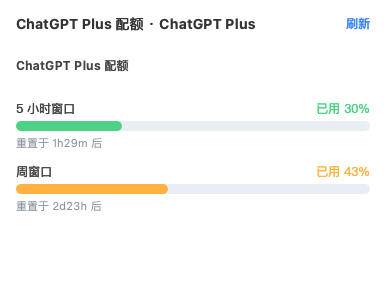
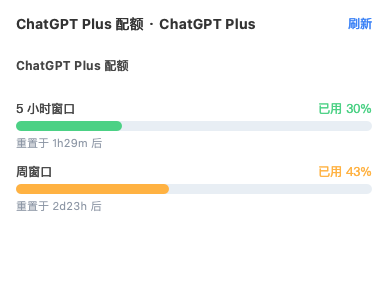
feat: CD 锚定(auto_anchor)——重置时刻自动开窗,5 小时周期首尾相接
Codex 的 5 小时窗口从第一次真实请求起算,纯读接口不算:额度用完后若
拖延才用,窗口起点被动后延,窗口时间被空烧。开启 auto_anchor 后:

- 主窗口用完(remaining=0)时,在 resets_at+10s 自动发一条最小请求
  (codex exec,几十 token)把新窗口锚定在重置节点上
- 锚定后读取新窗口,拿到新 resets_at 链式排程下一次(周期首尾相接)
- 仅上个窗口真的用完才锚定;未用完自然过期则不锚(避免空烧)
- 错过锚点超 5 分钟(如睡眠唤醒)放弃,等真实使用自然开窗
- exec 超时 120s 兜底 kill;失败静默放弃不影响主流程
- 平台无关实现(QProcess 跑 codex exec),Windows/macOS 同时支持
- 默认关闭,~/.codex-pet/config.json 设 auto_anchor: true 开启

tests/test_auto_anchor.py:9 项守卫/排程/链式用例

diff --git a/src/codex_pet/codex_client.py b/src/codex_pet/codex_client.py
@@ -16,6 +16,8 @@ from dataclasses import dataclass, field
 
 from PyQt6.QtCore import QObject, QProcess, QProcessEnvironment, QTimer, pyqtSignal
 
+from .config import load_config
+
 INITIALIZE = "initialize"
 READ_RATE_LIMITS = "account/rateLimits/read"
 RATE_LIMITS_UPDATED = "account/rateLimits/updated"
@@ -23,6 +25,14 @@ RATE_LIMITS_UPDATED = "account/rateLimits/updated"
 POLL_INTERVAL_MS = 5 * 60 * 1000  # 兜底轮询:5 分钟
 RESTART_BASE_MS = 2000            # 进程崩溃重启退避基数
 RESTART_MAX_MS = 5 * 60 * 1000
+
+# CD 锚定(auto_anchor):额度耗尽后,在窗口重置时刻自动发一条最小请求
+# "开窗",让 5 小时周期从重置节点起算、首尾相接(窗口计时从第一次真实
+# 请求开始,纯读接口不算)。
+ANCHOR_DELAY_S = 10          # resets_at 之后的缓冲,吸收服务器时钟偏差
+ANCHOR_LATE_LIMIT_S = 300    # 错过锚点超过 5 分钟(如睡眠)就放弃,等真实使用自然开窗
+ANCHOR_PROMPT = "Reply with OK"
+ANCHOR_TIMEOUT_MS = 120_000
 
 
 @dataclass
@@ -120,6 +130,14 @@ class CodexClient(QObject):
         self._restart_timer.setSingleShot(True)
         self._restart_timer.timeout.connect(self._start_process)
 
+        # CD 锚定状态(见 _schedule_anchor)
+        self._anchor_timer = QTimer(self)
+        self._anchor_timer.setSingleShot(True)
+        self._anchor_timer.timeout.connect(self._maybe_anchor)
+        self._anchor_proc: QProcess | None = None
+        self._last_remaining: int | None = None    # 最近一次主窗口 remaining
+        self._last_resets_at: float | None = None  # 最近一次主窗口重置时刻
+
     # ------------------------------------------------------------------ 公共
 
     def start(self) -> None:
@@ -193,15 +211,7 @@ class CodexClient(QObject):
         proc.setProgram(self._codex_exe)
         proc.setArguments([*self._codex_args, "app-server"])
         # 保证子进程能读到 HOME/USERPROFILE 下的 ~/.codex
-        env = QProcessEnvironment.systemEnvironment()
-        if sys.platform == "darwin":
-            # GUI 启动时 PATH 有限:codex 可能是依赖 env node 的脚本垫片,
-            # 把常见可执行目录补进 PATH,保证 app-server 能正常拉起
-            extra = ["/opt/homebrew/bin", "/usr/local/bin",
-                     os.path.expanduser("~/.local/bin")]
-            env.insert("PATH", ":".join(extra) + ":"
-                       + (env.value("PATH") or "/usr/bin:/bin:/usr/sbin:/sbin"))
-        proc.setProcessEnvironment(env)
+        proc.setProcessEnvironment(self._child_env())
         proc.readyReadStandardOutput.connect(self._on_stdout)
         proc.readyReadStandardError.connect(self._on_stderr)
         proc.started.connect(self._on_started)
@@ -305,6 +315,10 @@ class CodexClient(QObject):
             self._last_snapshot = snapshot
             payload = snapshot.to_dict()
             payload["updated_at"] = time.time()
+            primary = snapshot.primary
+            self._last_remaining = primary.remaining
+            self._last_resets_at = primary.resets_at
+            self._schedule_anchor()
             self.limitsUpdated.emit(payload)
 
     def _handle_error_response(self, req_id, error: dict) -> None:
@@ -322,3 +336,73 @@ class CodexClient(QObject):
         self._pending_reads.add(req_id)
 
     # 解析在 _handle_response 中分发:给 read 请求分配的 id 需要跟踪
+
+    # ------------------------------------------------------------- CD 锚定
+
+    def _child_env(self) -> QProcessEnvironment:
+        """子进程环境:GUI 启动时 PATH 有限,补常见可执行目录。"""
+        env = QProcessEnvironment.systemEnvironment()
+        if sys.platform == "darwin":
+            extra = ["/opt/homebrew/bin", "/usr/local/bin",
+                     os.path.expanduser("~/.local/bin")]
+            env.insert("PATH", ":".join(extra) + ":"
+                       + (env.value("PATH") or "/usr/bin:/bin:/usr/sbin:/sbin"))
+        return env
+
+    def _schedule_anchor(self) -> None:
+        """CD 锚定排程:主窗口用完(remaining=0)且未重置时,在重置时刻
+        自动发一条最小请求"开窗",让 5 小时周期从重置节点起算、首尾相接。
+
+        窗口计时从第一次真实请求开始(纯读接口不算),若等用户下次才用,
+        窗口起点被动后延。开关:~/.codex-pet/config.json "auto_anchor": true
+        (默认关——会自动产生真实请求,须用户知情开启)。
+        """
+        if not load_config().get("auto_anchor"):
+            return
+        resets_at = self._last_resets_at
+        if (self._last_remaining != 0 or resets_at is None
+                or resets_at <= time.time()):
+            return
+        delay_ms = max(1000, int((resets_at + ANCHOR_DELAY_S - time.time()) * 1000))
+        self._anchor_timer.start(delay_ms)
+
+    def _maybe_anchor(self) -> None:
+        """锚定时刻到:通过全部守卫才真正发起锚定请求。"""
+        if (not load_config().get("auto_anchor")
+                or getattr(self, "_codex_exe", None) is None
+                or self._last_remaining != 0
+                or self._last_resets_at is None
+                or self._anchor_proc is not None):
+            return
+        late = time.time() - self._last_resets_at
+        if late > ANCHOR_LATE_LIMIT_S:
+            # 错过太久(如睡眠唤醒):不锚,让用户下次真实使用自然开窗
+            return
+        self._fire_anchor()
+
+    def _fire_anchor(self) -> None:
+        proc = QProcess(self)
+        proc.setProgram(self._codex_exe)
+        proc.setArguments([*self._codex_args, "exec", "--skip-git-repo-check",
+                           ANCHOR_PROMPT])
+        proc.setWorkingDirectory(os.path.expanduser("~"))
+        proc.setProcessEnvironment(self._child_env())
+        proc.finished.connect(self._on_anchor_finished)
+        proc.errorOccurred.connect(self._on_anchor_failed)
+        self._anchor_proc = proc
+        QTimer.singleShot(ANCHOR_TIMEOUT_MS, self._kill_stale_anchor)
+        proc.start()
+
+    def _kill_stale_anchor(self) -> None:
+        if self._anchor_proc is not None:
+            self._anchor_proc.kill()
+
+    def _on_anchor_finished(self, _code, _status) -> None:
+        self._anchor_proc = None
+        # 锚定成功则此次读取拿到新窗口(remaining≈100、resets_at=锚点+5h),
+        # 链式排程下一次;若服务端尚未滚动,退回兜底轮询
+        self.refresh()
+
+    def _on_anchor_failed(self, _err) -> None:
+        self._anchor_proc = None
+        self.refresh()

diff --git a/tests/test_auto_anchor.py b/tests/test_auto_anchor.py
@@ -1,0 +1,99 @@
+"""CD 锚定(auto_anchor)逻辑测试:守卫条件、排程、链式续排。
+
+不真正发起 codex exec:_fire_anchor / refresh 被猴补为记录器。
+"""
+
+import os
+import sys
+import time
+
+os.environ.setdefault("QT_QPA_PLATFORM", "offscreen")
+sys.path.insert(0, os.path.join(os.path.dirname(__file__), "..", "src"))
+
+import codex_pet.codex_client as cc
+from codex_pet.codex_client import CodexClient
+from PyQt6.QtWidgets import QApplication
+
+app = QApplication.instance() or QApplication(sys.argv)
+
+results = []
+
+
+def check(name, cond):
+    results.append((name, cond))
+    print(("PASS " if cond else "FAIL ") + name)
+
+
+def make_client(auto_anchor=True):
+    cc.load_config = lambda: {"auto_anchor": auto_anchor}
+    client = CodexClient()
+    client._codex_exe = "/usr/bin/true"   # 守卫检查用,不真正执行
+    client._codex_args = []
+    fired, refreshed = [], []
+    client._fire_anchor = lambda: fired.append(time.time())
+    client.refresh = lambda: refreshed.append(time.time())
+    return client, fired, refreshed
+
+
+def feed(client, remaining, resets_at):
+    """模拟一次配额响应到达(_handle_response 的状态记录 + 排程)。"""
+    client._last_remaining = remaining
+    client._last_resets_at = resets_at
+    client._schedule_anchor()
+
+
+# 场景1:用完 + 重置在未来 + 开关开 → 排程定时器
+c, fired, refreshed = make_client(True)
+future = time.time() + 3600
+feed(c, 0, future)
+check("用完+未来重置 → 定时器已排程", c._anchor_timer.isActive())
+check("排程时刻 ≈ resets_at+10s",
+      abs(c._anchor_timer.remainingTime() / 1000 - (future + 10 - time.time())) < 2)
+
+# 场景2:未用完 → 不排程
+c2, f2, r2 = make_client(True)
+feed(c2, 45, future)
+check("未用完 → 不排程", not c2._anchor_timer.isActive())
+
+# 场景3:开关关 → 不排程
+c3, f3, r3 = make_client(False)
+feed(c3, 0, future)
+check("开关关 → 不排程", not c3._anchor_timer.isActive())
+
+# 场景4:重置时刻已过 → 不排程(退回兜底轮询)
+c4, f4, r4 = make_client(True)
+feed(c4, 0, time.time() - 60)
+check("重置已过 → 不排程", not c4._anchor_timer.isActive())
+
+# 场景5:锚定时刻到,守卫判断
+c5, f5, r5 = make_client(True)
+c5._last_remaining = 0
+c5._last_resets_at = time.time() - 2      # 刚过重置点 2 秒
+c5._maybe_anchor()
+check("刚过重置点 → 发起锚定", len(f5) == 1)
+
+# 场景6:错过太久(睡眠)→ 放弃
+c6, f6, r6 = make_client(True)
+c6._last_remaining = 0
+c6._last_resets_at = time.time() - 400    # 错过 6.7 分钟
+c6._maybe_anchor()
+check("错过 >5 分钟 → 放弃锚定", len(f6) == 0)
+
+# 场景7:未用完时不发起
+c7, f7, r7 = make_client(True)
+c7._last_remaining = 60
+c7._last_resets_at = time.time() - 2
+c7._maybe_anchor()
+check("未用完 → 不发起", len(f7) == 0)
+
+# 场景8:锚定完成 → 刷新读取新窗口(链式)
+c8, f8, r8 = make_client(True)
+c8._last_remaining = 0
+c8._last_resets_at = time.time() - 2
+proc = cc.QProcess(c8)
+c8._anchor_proc = proc
+c8._on_anchor_finished(0, cc.QProcess.ExitStatus.NormalExit)
+check("锚定完成后触发刷新拿新窗口", len(r8) == 1 and c8._anchor_proc is None)
+
+print("\nRESULT:", "PASS" if all(cond for _, cond in results) else "FAIL")
+sys.exit(0 if all(cond for _, cond in results) else 1)

diff --git a/src/codex_pet/__init__.py b/src/codex_pet/__init__.py
@@ -3,4 +3,4 @@
 from .__main__ import main
 
 __all__ = ["main"]
-__version__ = "1.4.4"
+__version__ = "1.5.0"

diff --git a/README.md b/README.md
@@ -23,7 +23,8 @@
 - **置顶强化**:每秒检测是否被其他置顶窗口(如任务栏)盖住,被盖自动重排回顶端;任务栏挪动/分辨率变化时跟随锚定
 - **系统托盘**:模式化图标(配额电量 / DeepSeek ¥)+ 悬停提示;macOS 菜单栏图标即主显示
 - **零凭证接触**:ChatGPT 鉴权完全由 Codex CLI 自己管理;DeepSeek 密钥只用于调余额接口,不写日志
-- **离线兜底**:codex 未安装/未登录时显示离线状态(电池显示 Z),进程崩溃自动退避重启;DeepSeek 密钥无效时明确提示
+- **CD 锚定(auto_anchor,可选)**:Codex 的 5 小时窗口从第一次真实请求起算——额度用完后若拖延才用,窗口起点会被动后延。开启后,在窗口重置时刻自动发一条最小请求(`codex exec`,几十 token)"开窗",让 5 小时周期从重置节点起算、首尾相接;仅在上个窗口真的用完时锚定,错过锚点(如睡眠)超 5 分钟自动放弃
+- **离线兜底**:codex 未安装/未登录时显示离线状态(图标显示 Z),进程崩溃自动退避重启;DeepSeek 密钥无效时明确提示
 
 ## 环境要求
 
@@ -62,7 +63,8 @@ uv run codex-pet
 
 ```jsonc
 {
-  "bar_offset": [0, 0]  // 余额条相对任务栏托盘左侧锚点的偏移
+  "bar_offset": [0, 0],    // 余额条相对任务栏托盘左侧锚点的偏移
+  "auto_anchor": false     // CD 锚定:额度用完后在重置时刻自动"开窗"(见功能列表)
 }
 ```
 
@@ -85,7 +87,7 @@ uv run --with pyinstaller pyinstaller --windowed \
     --name CodexPet --icon assets/CodexPet.icns \
     --paths src scripts/launcher.py --noconfirm                 # 出 dist/CodexPet.app
 /usr/libexec/PlistBuddy -c "Set :CFBundleIdentifier com.simonyuann.codexpet" \
-    -c "Set :CFBundleShortVersionString 1.4.4" \
+    -c "Set :CFBundleShortVersionString 1.5.0" \
     -c "Add :LSUIElement bool true" dist/CodexPet.app/Contents/Info.plist
 codesign --force --deep --sign - dist/CodexPet.app      # ad-hoc 签名
 ```
